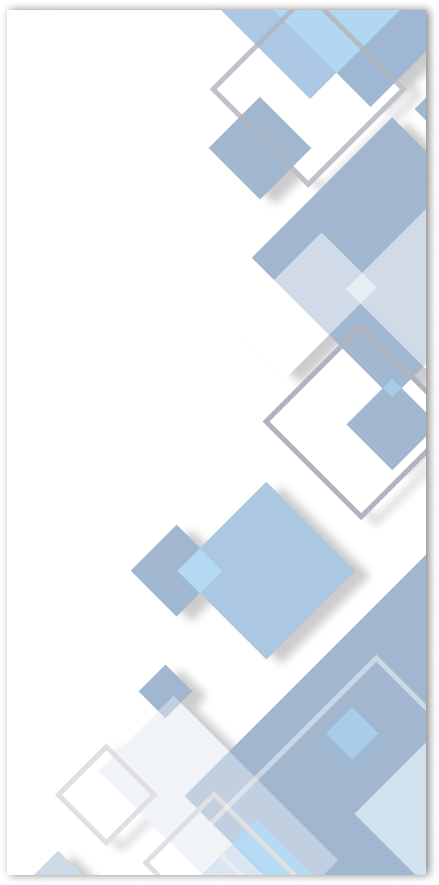
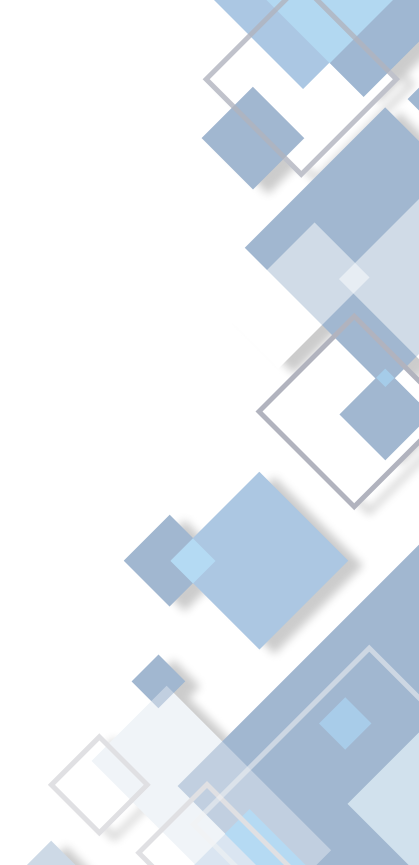
Fixed the menu background image

diff --git a/frontend/src/App.css b/frontend/src/App.css
@@ -5,6 +5,8 @@
 .logo-panel {
   position: relative;
   background-image: url("../src/assets/images/Sidebar-bg.png");
+  background-size: cover;
+  background-repeat: no-repeat;
   border-right: 1px solid #e0e4ec;
   box-shadow: 3px 5px 14px 0px;
 }
